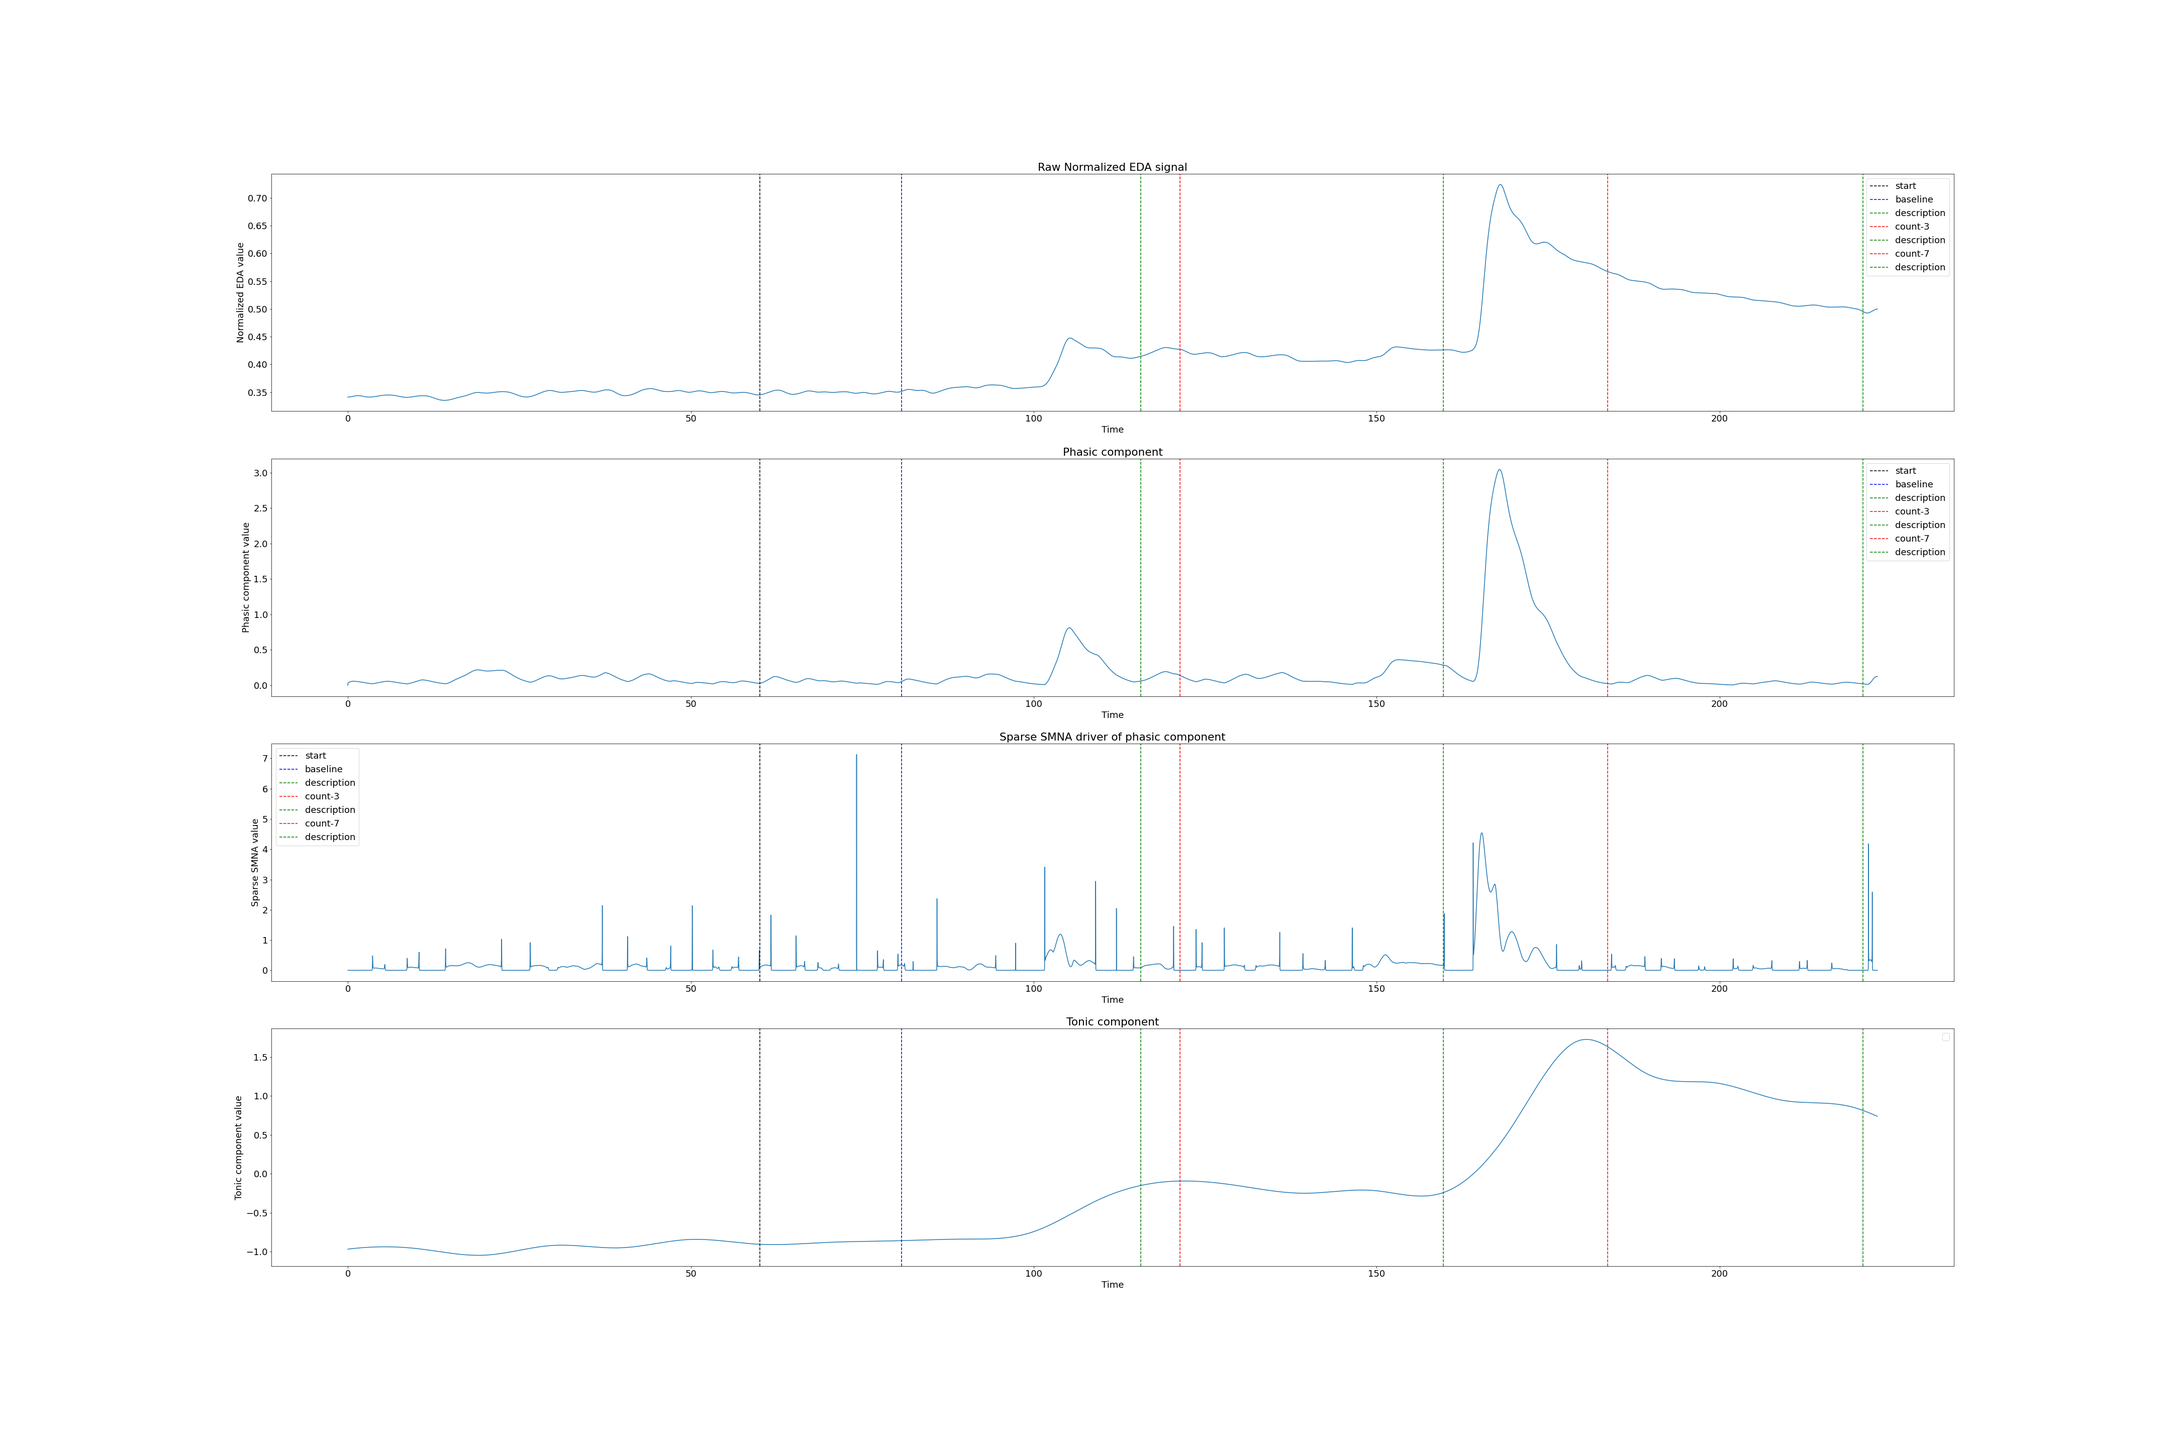
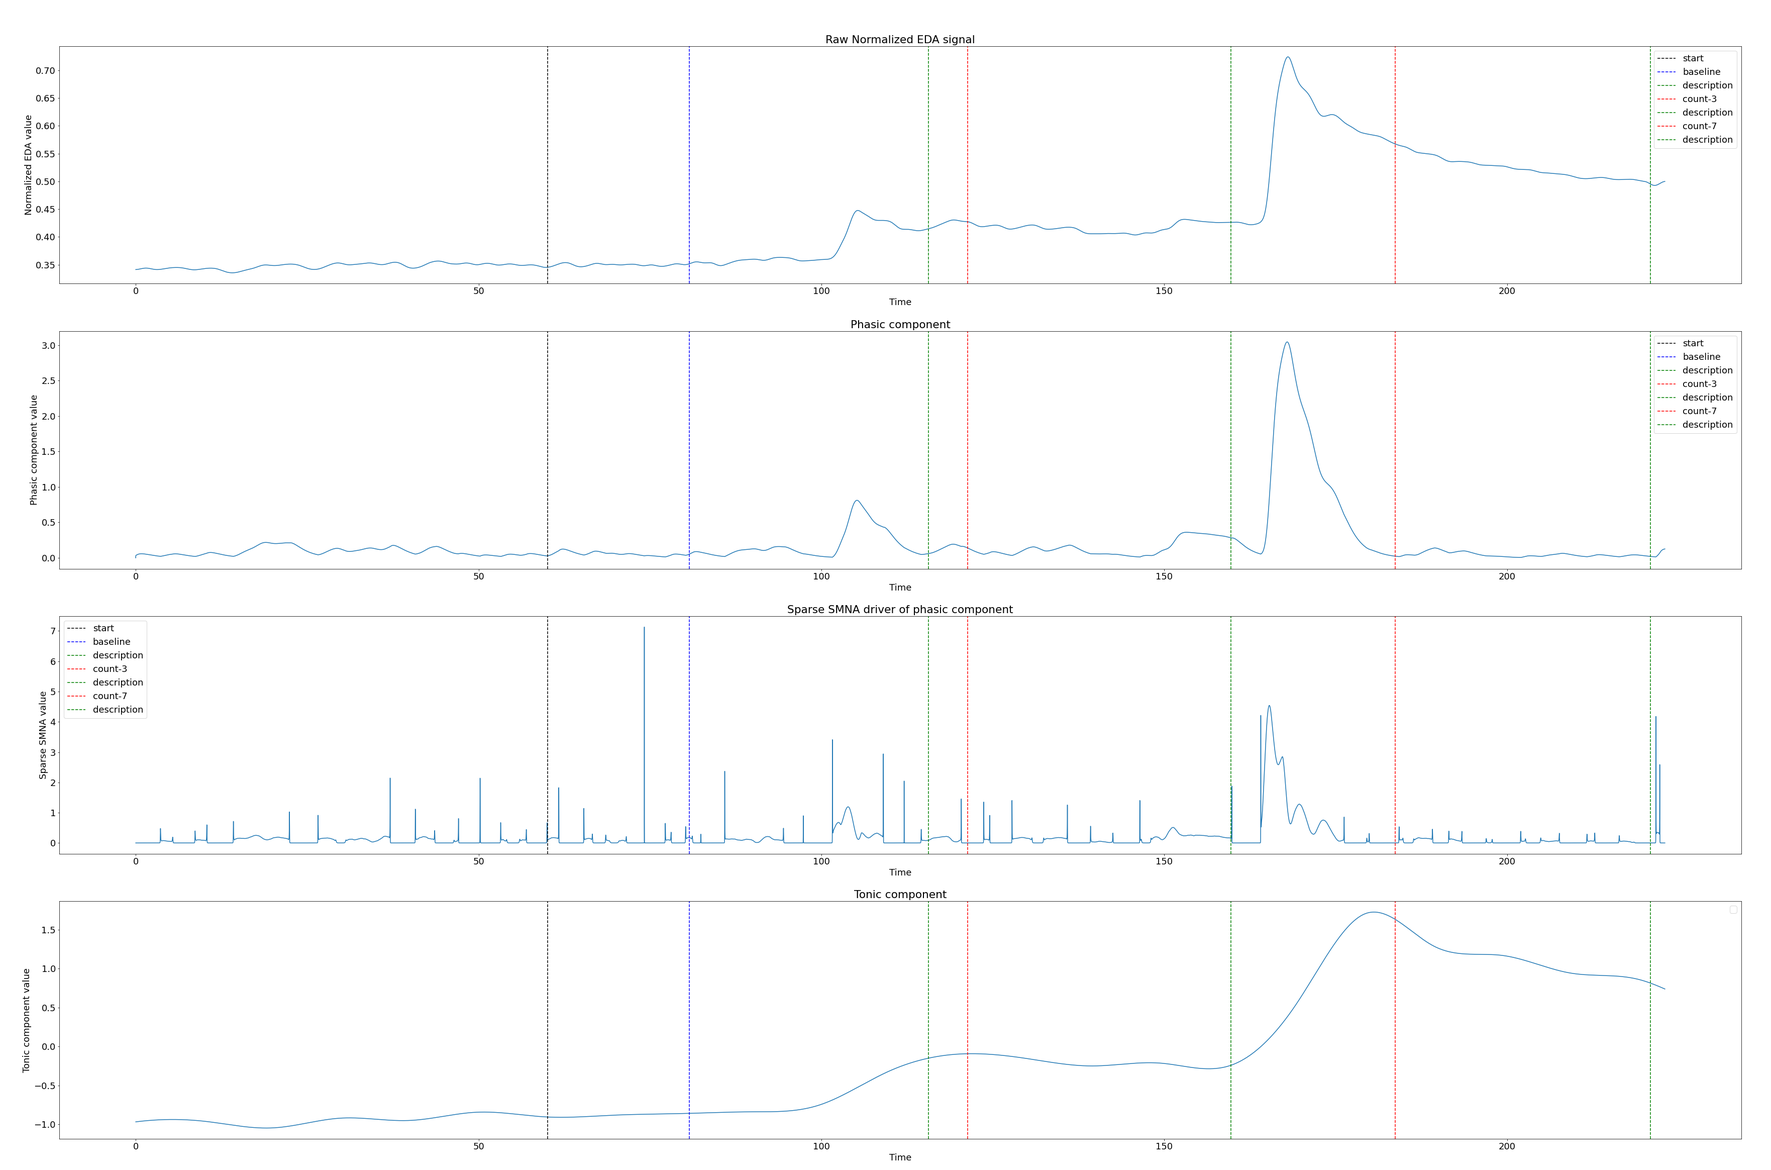
End of EDA processing

diff --git a/src/eda_metrics.py b/src/eda_metrics.py
@@ -74,21 +74,22 @@ def transformDataplot(datatoresize,timeframedata):
 
 #Fonction pour ploter les données, on sauvegarde 7 images rawdatasX.png comprenant 4 graphiques différents
 def plotEDA(datatoplot):
-    plt.rcParams['font.size'] = 18
-    fig = plt.figure(figsize=(60,40), facecolor="white")
+    plt.rcParams['font.size'] = 20
+    fig = plt.figure(figsize=(60,20), facecolor="white")
     j = 0
     for el in datatoplot:
         signal_mv = ((el / 2**16) * 3) / 0.12
         tm = np.linspace(0, len(signal_mv)//1000, len(signal_mv))
         filteredEDA, processedEDA = singleProcessedEDA(signal_mv)
-        ax = fig.add_subplot(11,1,j+1)
-        ax.set_title(f'Raw + Filtered EDA signals {j+1}')
-        ax.set_xlabel('Time (s)')
-        ax.set_ylabel(f'EDA response (uS) {j+1}')
+        #ax = fig.add_subplot(1,1,j+1)
+        #plt.subplot(1,1,1)
         plt.plot(tm, signal_mv)
-        plt.plot(tm, filteredEDA, 'r--')
+        plt.title(f'Raw EDA signals {j+1}')
+        plt.xlabel('Time (s)')
+        plt.ylabel(f'EDA response (uS) {j+1}')
+        #plt.plot(tm, filteredEDA, 'r--')
         #plt.plot(tm, processedEDA)
-        plt.tick_params(axis='both', which='major')
+        #plt.tick_params(axis='both', which='major')
         if j < 3:                
             plt.axvline(x=protocolLabel[j][0], color="black", linestyle="--", label="start")
             plt.axvline(x=protocolLabel[j][1], color="blue", linestyle="--", label="baseline")
@@ -142,7 +143,7 @@ def plotEDA(datatoplot):
             plt.axvline(x=protocolLabel[j][11], color="green", linestyle="--", label="description")
         j += 1
     plt.legend(loc="best")
-    fig.tight_layout()
+    #fig.tight_layout()
     plt.show()
     fig.savefig(f'../Plot/Signals/EDA/EDA.png', facecolor="white")
 
@@ -550,10 +551,17 @@ def plotSingleCVXEDA(el):
     eda9cvxn = stats.zscore(eda9cvx)
     [r, p, t, l, d, e, obj] = cvxEDA(eda9cvxn, 1/1000)
     fig = plt.figure(figsize=(60,40), facecolor="white")
-    plt.rcParams['font.size'] = 18
+    plt.rcParams['font.size'] = 20
+    plt.plot(time1, el)
+    plt.title('CVX Raw EDA 9')
+    plt.plot(time1, p)
+    plt.title('CVX Raw EDA 9')
     plt.plot(time1, r)
     plt.title('CVX Raw EDA 9')
+    plt.plot(time1, t)
+    plt.title('CVX Raw EDA 9')
     plt.show()
+    fig.savefig(f'../Plot/Signals/EDA/singleEDA')
 
 def plotCVxEDA(dataa):
     nbofpic = 1
@@ -565,104 +573,75 @@ def plotCVxEDA(dataa):
         [r, p, t, l, d, e, obj] = cvxEDA(yn, 1/Fs)
         tm = np.linspace(0, len(yn)//Fs, len(yn))
 
-        fig = plt.figure(figsize=(60,40), facecolor="white")
+        fig = plt.figure(figsize=(60,30), facecolor="white")
         #y = y/max(y)
-        plt.subplot(4, 1, 1)
         plt.plot(tm, y)
         plt.title('Raw Normalized EDA signal')
-        plt.xlabel('Time')
+        plt.xlabel('Time (s)')
         plt.ylabel('Normalized EDA value')
-        plt.tick_params(axis='both', which='major')
-        plt.axvline(x=protocolLabel[nbofpic-1][0], color="black", linestyle="--", label="start")
-        plt.axvline(x=protocolLabel[nbofpic-1][1], color="blue", linestyle="--", label="baseline")
-        plt.axvline(x=protocolLabel[nbofpic-1][2], color="green", linestyle="--", label="description")
-        plt.axvline(x=protocolLabel[nbofpic-1][3], color="red", linestyle="--", label="count-3")
-        plt.axvline(x=protocolLabel[nbofpic-1][4], color="green", linestyle="--", label="description")
-        plt.axvline(x=protocolLabel[nbofpic-1][5], color="red", linestyle="--", label="count-7")
-        plt.axvline(x=protocolLabel[nbofpic-1][6], color="green", linestyle="--", label="description")
-        if nbofpic != 4:
-            plt.axvline(x=protocolLabel[nbofpic-1][7], color="black", linestyle="--", label="relax")
-            if nbofpic == 7 : 
-                plt.axvline(x=protocolLabel[nbofpic-1][8], color="yellow", linestyle="--", label="questionnary")
-                plt.axvline(x=protocolLabel[nbofpic-1][9], color="purple", linestyle="--", label="video")
-                plt.axvline(x=protocolLabel[nbofpic-1][10], color="brown", linestyle="--", label="video")
-        plt.legend()
-        
-        plt.subplot(4, 1, 2)
         plt.plot(tm, r)
         plt.title('Phasic component')
-        plt.xlabel('Time')
+        plt.xlabel('Time (s)')
         plt.ylabel('Phasic component value')
-        plt.axvline(x=protocolLabel[nbofpic-1][0], color="black", linestyle="--", label="start")
-        plt.axvline(x=protocolLabel[nbofpic-1][1], color="blue", linestyle="--", label="baseline")
-        plt.axvline(x=protocolLabel[nbofpic-1][2], color="green", linestyle="--", label="description")
-        plt.axvline(x=protocolLabel[nbofpic-1][3], color="red", linestyle="--", label="count-3")
-        plt.axvline(x=protocolLabel[nbofpic-1][4], color="green", linestyle="--", label="description")
-        plt.axvline(x=protocolLabel[nbofpic-1][5], color="red", linestyle="--", label="count-7")
-        plt.axvline(x=protocolLabel[nbofpic-1][6], color="green", linestyle="--", label="description")
-        if nbofpic != 4:
-            plt.axvline(x=protocolLabel[nbofpic-1][7], color="black", linestyle="--", label="relax")
-            if nbofpic == 7 : 
-                plt.axvline(x=protocolLabel[nbofpic-1][8], color="yellow", linestyle="--", label="questionnary")
-                plt.axvline(x=protocolLabel[nbofpic-1][9], color="purple", linestyle="--", label="video")
-                plt.axvline(x=protocolLabel[nbofpic-1][10], color="brown", linestyle="--", label="video")
-        plt.legend()
-        
-        plt.subplot(4, 1, 3)
         plt.plot(tm, p)
         plt.title('Sparse SMNA driver of phasic component')
-        plt.xlabel('Time')
+        plt.xlabel('Time (s)')
         plt.ylabel('Sparse SMNA value')
-        plt.axvline(x=protocolLabel[nbofpic-1][0], color="black", linestyle="--", label="start")
-        plt.axvline(x=protocolLabel[nbofpic-1][1], color="blue", linestyle="--", label="baseline")
-        plt.axvline(x=protocolLabel[nbofpic-1][2], color="green", linestyle="--", label="description")
-        plt.axvline(x=protocolLabel[nbofpic-1][3], color="red", linestyle="--", label="count-3")
-        plt.axvline(x=protocolLabel[nbofpic-1][4], color="green", linestyle="--", label="description")
-        plt.axvline(x=protocolLabel[nbofpic-1][5], color="red", linestyle="--", label="count-7")
-        plt.axvline(x=protocolLabel[nbofpic-1][6], color="green", linestyle="--", label="description")
-        if nbofpic != 4:
-            plt.axvline(x=protocolLabel[nbofpic-1][7], color="black", linestyle="--", label="relax")
-            if nbofpic == 7: 
-                plt.axvline(x=protocolLabel[nbofpic-1][8], color="yellow", linestyle="--", label="questionnary")
-                plt.axvline(x=protocolLabel[nbofpic-1][9], color="purple", linestyle="--", label="video")
-                plt.axvline(x=protocolLabel[nbofpic-1][10], color="brown", linestyle="--", label="video")
-        plt.legend()
-        
-        plt.subplot(4, 1, 4)
         plt.plot(tm, t)
         plt.title('Tonic component')
-        plt.xlabel('Time')
+        plt.xlabel('Time (s)')
         plt.ylabel('Tonic component value')
+        if j < 3:                
+            plt.axvline(x=protocolLabel[j][0], color="black", linestyle="--", label="start")
+            plt.axvline(x=protocolLabel[j][1], color="blue", linestyle="--", label="baseline")
+            plt.axvline(x=protocolLabel[j][2], color="green", linestyle="--", label="description")
+            plt.axvline(x=protocolLabel[j][3], color="red", linestyle="--", label="count-3")
+            plt.axvline(x=protocolLabel[j][4], color="green", linestyle="--", label="description")
+            plt.axvline(x=protocolLabel[j][5], color="red", linestyle="--", label="count-7")
+            plt.axvline(x=protocolLabel[j][6], color="green", linestyle="--", label="description")
+            plt.axvline(x=protocolLabel[j][7], color="orange", linestyle="--", label="relax")
+        if j == 3:
+            plt.axvline(x=protocolLabel[j][0], color="black", linestyle="--", label="start/baseline")
+            plt.axvline(x=protocolLabel[j][1], color="green", linestyle="--", label="description")
+            plt.axvline(x=protocolLabel[j][2], color="red", linestyle="--", label="count-3")
+            plt.axvline(x=protocolLabel[j][3], color="green", linestyle="--", label="description")
+            plt.axvline(x=protocolLabel[j][4], color="red", linestyle="--", label="count-7")
+            plt.axvline(x=protocolLabel[j][5], color="green", linestyle="--", label="description")
+            plt.axvline(x=protocolLabel[j][6], color="orange", linestyle="--", label="relax")
+        if j==4 or j==5  : 
+            plt.axvline(x=protocolLabel[j][0], color="black", linestyle="--", label="start")
+            plt.axvline(x=protocolLabel[j][1], color="blue", linestyle="--", label="baseline")
+            plt.axvline(x=protocolLabel[j][2], color="green", linestyle="--", label="description")
+            plt.axvline(x=protocolLabel[j][3], color="red", linestyle="--", label="count-3")
+            plt.axvline(x=protocolLabel[j][4], color="green", linestyle="--", label="description")
+            plt.axvline(x=protocolLabel[j][5], color="red", linestyle="--", label="count-7")
+            plt.axvline(x=protocolLabel[j][6], color="purple", linestyle="--", label="questionnary")
+            plt.axvline(x=protocolLabel[j][7], color="orange", linestyle="--", label="relax")
+        if j == 6:
+            plt.axvline(x=protocolLabel[j][0], color="black", linestyle="--", label="start")
+            plt.axvline(x=protocolLabel[j][1], color="blue", linestyle="--", label="baseline")
+            plt.axvline(x=protocolLabel[j][2], color="green", linestyle="--", label="description")
+            plt.axvline(x=protocolLabel[j][3], color="red", linestyle="--", label="count-3")
+            plt.axvline(x=protocolLabel[j][4], color="green", linestyle="--", label="description")
+            plt.axvline(x=protocolLabel[j][5], color="red", linestyle="--", label="count-7")
+            plt.axvline(x=protocolLabel[j][6], color="green", linestyle="--", label="big breath")
+            plt.axvline(x=protocolLabel[j][7], color="purple", linestyle="--", label="questionnary")
+            plt.axvline(x=protocolLabel[j][8], color="green", linestyle="--", label="description")
+            plt.axvline(x=protocolLabel[j][9], color="yellow", linestyle="--", label="fake video")
+            plt.axvline(x=protocolLabel[j][10], color="orange", linestyle="--", label="relax")
         plt.legend()
-        plt.axvline(x=protocolLabel[nbofpic-1][0], color="black", linestyle="--", label="start")
-        plt.axvline(x=protocolLabel[nbofpic-1][1], color="blue", linestyle="--", label="baseline")
-        plt.axvline(x=protocolLabel[nbofpic-1][2], color="green", linestyle="--", label="description")
-        plt.axvline(x=protocolLabel[nbofpic-1][3], color="red", linestyle="--", label="count-3")
-        plt.axvline(x=protocolLabel[nbofpic-1][4], color="green", linestyle="--", label="description")
-        plt.axvline(x=protocolLabel[nbofpic-1][5], color="red", linestyle="--", label="count-7")
-        plt.axvline(x=protocolLabel[nbofpic-1][6], color="green", linestyle="--", label="description")
-        if nbofpic != 4:
-            plt.axvline(x=protocolLabel[nbofpic-1][7], color="black", linestyle="--", label="relax")
-            if nbofpic == 7: 
-                plt.axvline(x=protocolLabel[nbofpic-1][8], color="yellow", linestyle="--", label="questionnary")
-                plt.axvline(x=protocolLabel[nbofpic-1][9], color="purple", linestyle="--", label="video")
-                plt.axvline(x=protocolLabel[nbofpic-1][10], color="brown", linestyle="--", label="video")
         #plt.show()
         fig.savefig(f'../Plot/Signals/EDA/CVxEDA{nbofpic}labeledprocessed.png', facecolor="white")
         nbofpic += 1
+        j += 1
 
 def multipleEDAMetrics():
     Fs = 1000
-    #fig = plt.figure(figsize=(60,40), facecolor="white")
+    fig = plt.figure(figsize=(60,40), facecolor="white")
     #plt.rcParams['font.size'] = 20
     file = open("../EDA_Metrics.txt", 'w')
     colori = ['red', 'green', 'blue' , 'cyan', 'magenta', 'yellow', 'black', 'purple', 'brown', 'pink', 'orange', 'tan']
-    for elemi in range(7,11):
-        fig = plt.figure(figsize=(60,40), facecolor="white")
-        plt.rcParams['font.size'] = 20
-        """ if elemi < 7:
-            elementeda = dataplot[1][elemi][70000:230000]
-        else: """
+    for elemi in range(11):
         elementeda = dataplot[1][elemi]
         nbel = elemi
         eda_filtered, eda9_processed = singleProcessedEDA(elementeda)
@@ -670,12 +649,12 @@ def multipleEDAMetrics():
         eda_filtered = eda_filtered/max(eda_filtered)
         elementeda = elementeda/max(elementeda)
         eda9_processed = eda9_processed/max(eda9_processed)
-        """ if elemi < 9:
+        if elemi < 9:
             time1 = np.linspace(70, 230, len(elementeda))
             time2 = np.linspace(70, 230, len(eda9_processed))
-        else: """
-        time1 = np.linspace(0, len(elementeda)//Fs, len(elementeda))
-        time2 = np.linspace(0, len(eda9_processed)//Fs, len(eda9_processed))
+        else:
+            time1 = np.linspace(0, len(elementeda)//Fs, len(elementeda))
+            time2 = np.linspace(0, len(eda9_processed)//Fs, len(eda9_processed))
 
         plt.subplot(2, 1, 1)
         #plt.plot(time1, elementeda, '-', color=f'{colori[elemi]}' label=f'Raw EDA {nbel+1}')
@@ -744,7 +723,6 @@ def multipleEDAMetrics():
             eda9cvx = np.array(el)
             eda9cvxn = stats.zscore(eda9cvx)
             [r, p, t, l, d, e, obj] = cvxEDA(eda9cvxn, 1/1000)
-            r = r/max(r)
             if labeli < 2:
                 plt.subplot(2,1,2)
                 plt.plot(time1, r, '-', color =f'{colori[elemi]}', label=f'{label[labeli]} phasic')
@@ -773,54 +751,27 @@ def multipleEDAMetrics():
                 plt.ylabel('Amplitude')
                 plt.legend(loc="upper right") """
             labeli += 1
-        singleEDAParameters(eda_processed2, nbel, file)
-        fig.tight_layout()
-        plt.show()
-        fig.savefig(f'../Plot/signals/EDA/eda_{nbel+1}_metrics_to9filt.png', facecolor='white')
+        singleEDAParameters(r, nbel, file)
+    fig.tight_layout()
+    plt.show()
+    fig.savefig(f'../Plot/signals/EDA/eda_{nbel+1}_metrics_to9filt.png', facecolor='white')
     file.close()
 
 
 #%%
 dataplot = loadData()
 dataplot = collectData(dataplot,-1)
-plotEDA(dataplot[1])
 #dataplot = transformDataplot(dataplot, protocolLabel)
 #%%
-dataplot[1][8] = dataplot[1][8][:500000]
-dataplot[1][10] = dataplot[1][10][:500000]
-#multipleEDAMetrics()
-#filteredEDA9, processedEDA9 = singleProcessedEDA(dataplot[1][8])
-#filteredEDA9 = [filteredEDA9]
-#plotSingleCVXEDA(dataplot[1][9])
-
 file = open("../EDA_Metrics_phasic.txt", 'w')
-file2 = open("../EDA_Metrics_processed.txt", 'w')
-file3 = open("../EDA_Metrics_normalized_processed.txt", 'w')
-for dataeli in range(len(dataplot[1])):
-    rawdatael = dataplot[1][dataeli][50000:]
+for dataeli in range(7):
+    rawdatael = dataplot[1][dataeli]
     filteredEDA, processedEDA = singleProcessedEDA(rawdatael)
     edacvx = np.array(rawdatael)
     edacvxn = stats.zscore(edacvx)
-    [r, p, t, l, d, e, obj] = cvxEDA(edacvxn, 1/1000)
-    singleEDAParameters(r, dataeli, file)
-    singleEDAParameters(processedEDA, dataeli, file2)
-    singleEDAParameters(edacvxn, dataeli, file3)
+    #[r, p, t, l, d, e, obj] = cvxEDA(edacvxn, 1/1000)
+    singleEDAParameters(processedEDA, dataeli, file)
 file.close()
-file2.close()
-file3.close()
-"""fig = plt.figure(figsize=(60,40), facecolor="white")
-plt.rcParams['font.size'] = 20
-for dataeli in range(len(dataplot[1])):
-    filteredEDA, processedEDA = singleProcessedEDA(dataplot[1][dataeli])
-    timee = np.linspace(0, len(filteredEDA)//1000, len(filteredEDA))
-    timee2 = np.linspace(0, len(processedEDA)//1000, len(processedEDA))
-    plt.subplot(11, 1, dataeli+1)
-    plt.plot(timee,processedEDA)
-    plt.xlabel('Time (s)')
-    plt.ylabel(f'EDA {dataeli+1} Response')
-    plt.title(f'Processed EDA {dataeli+1} signal')
-    plt.legend(loc="upper right")
-fig.tight_layout()
-fig.savefig(f'../Plot/Signals/EDA/eda_filtered.png', facecolor='white') """
+
 
 # %%

diff --git a/src/eda_processing.py b/src/eda_processing.py
@@ -305,7 +305,7 @@ def FiltEDA(N_order = 2):
     sample_frequence = 1000.    #Fréquence d'échantillonnage
     res = 16                    #Résolution de l'ADC
     vcc=3                       #Alimentation 
-    fpLP = [0.35, 0.5, 5, 35]             #Fréquences de coupure
+    fpLP = [35]             #Fréquences de coupure
     fpBP = [[0.016, 5],[0.5, 35],[0.045, 0.25],[0.0167, 0.25]]
     nyquist_frequence = sample_frequence/2.
     
@@ -313,18 +313,21 @@ def FiltEDA(N_order = 2):
 
 
     for flp in fpLP:
-        fig = plt.figure(figsize=(90,60), facecolor="white")
+        fig = plt.figure(figsize=(60,30), facecolor="white")
         b, a = signal.butter(N_order, flp, 'low', fs = sample_frequence)
         w, h = signal.freqs(b, a)
         ifilt = 1
-        plt.subplot(TAILLE+1,1,ifilt)
+        #plt.subplot(TAILLE+1,1,ifilt)
         ifilt += 1
         plt.semilogx(w, 20 * np.log10(abs(h)))
         plt.title(f'Butterworth {N_order} order filter with frequency cutoff at cutoff {flp} Hz')
         plt.xlabel('Frequency [radians / second]')
         plt.ylabel('Amplitude [dB]')
         plt.axvline(flp, color='green')
-        for el in dataplot[1]:
+        plt.grid()
+        plt.legend()
+        fig.savefig(f'../Plot/Signals/EDA/filterededaLP_{N_order}_{flp}.png', facecolor="white")
+        """  for el in dataplot[1]:
             signal_us = ((el / 2**res) * vcc) / 0.12 # On transforme le signal pour lui donner une dimension (formule trouvée sur biosignalplus)
             filteredel = signal.filtfilt(b, a, np.ravel(signal_us)) #Application du premier filtre sur le signal
             time = np.linspace(0, len(el)//1000, len(el))
@@ -400,10 +403,10 @@ def FiltEDA(N_order = 2):
     #plt.show()
         ifilt = 1 
         fig.savefig(f'../Plot/Signals/EDA/filterededaNOTCH_{N_order}_{fn}.png', facecolor="white") 
-        plt.close(fig)
+        plt.close(fig) """
 
-for j in range(1, 5):
-    FiltEDA(j)
+
+FiltEDA()
 
 
 # In[ ]:
